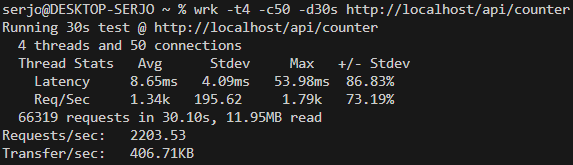
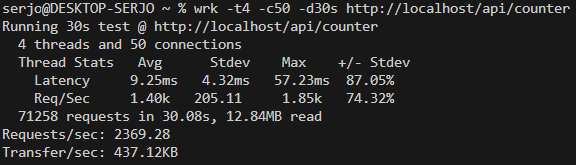
Update README.md

diff --git a/scaling_applications/README.md b/scaling_applications/README.md
@@ -64,8 +64,8 @@ healthcheck:
 
 | Параметр    | 1 реплика | 4 реплики | Изменение |
 | ----------- | --------- | --------- | --------- |
-| RPS         | 1695      | 2203      | **+30%**  |
-| Avg Latency | 10.61 ms  | 8.65 ms   | **−18%**  |
+| RPS         | 1795      | 2369      | **+30%**  |
+| Avg Latency | 11.82 ms  | 9.25 ms   | **−21%**  |
 
 - Изменился ли потенциал при обработке запросов? Да, изменился. При увеличении количества инстансов Flask с 1 до 4 – пропускная способность выросла примерно на 30%, а средняя задержка уменьшилась. Это означает, что приложение выигрывает от кластеризованного развертывания, даже в условиях одного хоста.
 
@@ -89,11 +89,11 @@ healthcheck:
 - Длительность: 30 секунд
 - Endpoint: GET /api/counter
 
-| Параметр     | 1 реплика | 4 реплики | Изменение       |
-| ------------ | --------- | --------- | --------------- |
-| Requests/sec | 1309.72   | 1812.60   | **+38%**        |
-| Avg Latency  | 14.10 ms  | 14.11 ms  | без изменений |
+| Параметр     | 1 реплика | 4 реплики | Изменение  |
+| ------------ | --------- | --------- | ---------- |
+| Requests/sec | 1310.25   | 1886.12   | **+43%**   |
+| Avg Latency  | 15.20 ms  | 13.45 ms  | **-12%**   |
 
-- Изменился ли потенциал обработки запросов? Увеличение количества реплик Flask-сервиса с 1 до 4 привело к росту пропускной способности примерно на 38%. Средняя задержка осталась практически неизменной.
+- Изменился ли потенциал обработки запросов? Увеличение количества реплик Flask-сервиса с 1 до 4 привело к росту пропускной способности примерно на 43%. Средняя задержка уменишилась на 12%.
 
 - Сравнение с Docker Swarm. Эффект масштабирования в Kubernetes сопоставим с Docker Swarm, однако более сложная сетевая модель Kubernetes приводит к дополнительным накладным расходам и снижению RPS.
